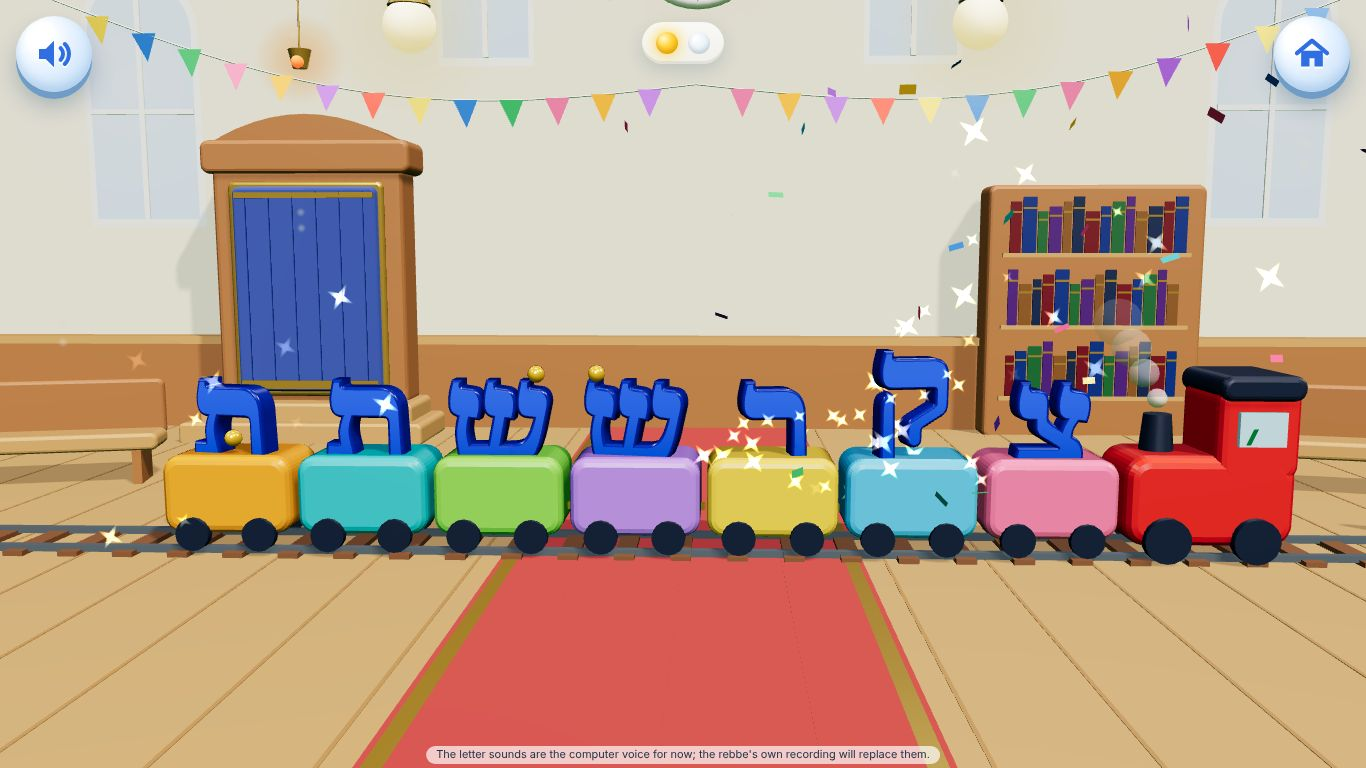
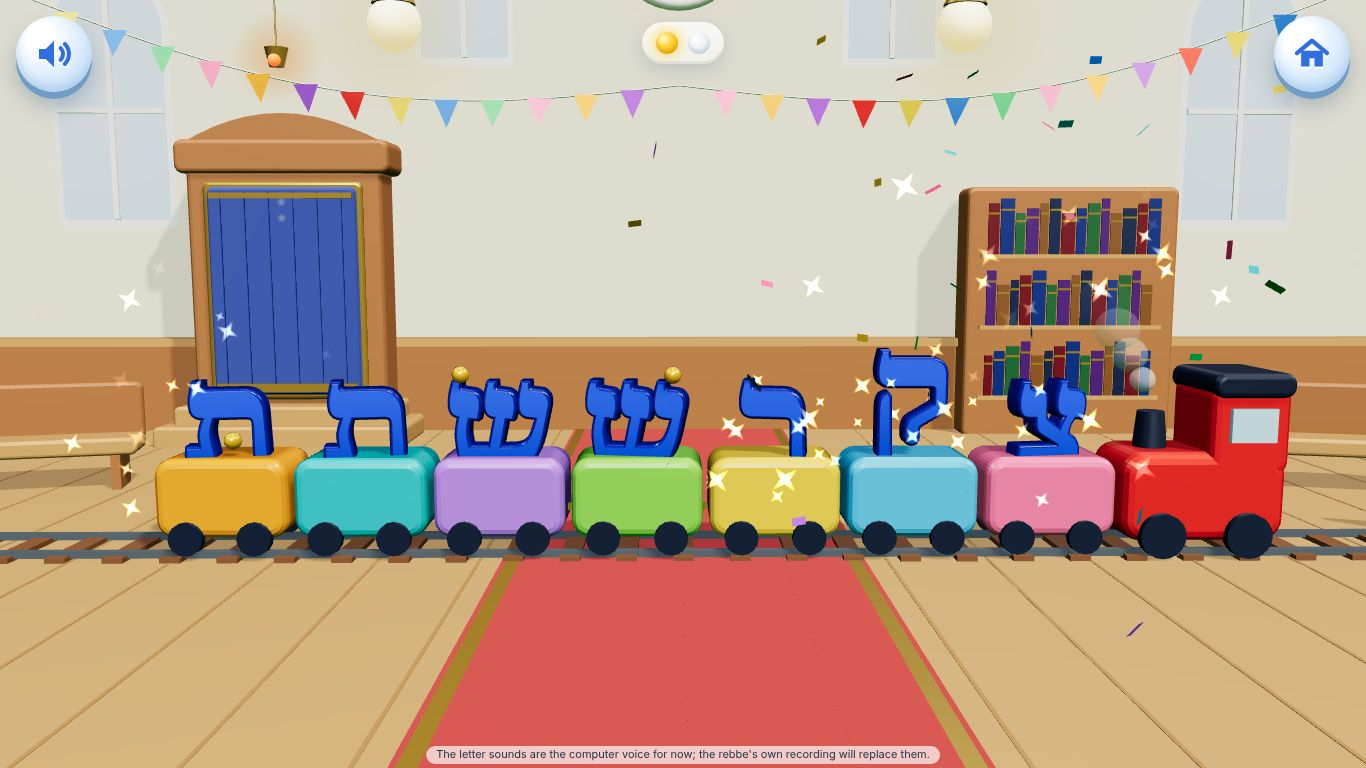
K Kriyah Unit 8: the mix-up train hides one dot pair among right cars; notes Co-Authored-By: Claude Opus 5.5 <noreply@anthropic.com> Claude-Session: https://claude.ai/code/session_016N866tqxnPmzUCae8bFavx

diff --git a/v2/app/k-kriyah/games/train.js b/v2/app/k-kriyah/games/train.js
@@ -128,14 +128,15 @@ export default function setup(E, { struggled, unit, game = {} }) {
     if (pr) { const [a, b] = pr.map(i => cars.find(x => x.userData.slot === i)); swapPairs = swapPairs.filter(p => p !== pr); E.sfx.whoosh();
       const pa = a.position.clone(), pb = b.position.clone(); await E.tween(650, q => { a.position.lerpVectors(pa, pb, q); b.position.lerpVectors(pb, pa, q); a.position.y += Math.sin(q * Math.PI) * 1.0; b.position.y += Math.sin(q * Math.PI) * .4; });
       const sa = a.userData.slot; a.userData.slot = b.userData.slot; b.userData.slot = sa; E.sfx.drum(); E.sparkle(a.position.clone().add(new THREE.Vector3(0, .8 * S, .4)), 14); E.sparkle(b.position.clone().add(new THREE.Vector3(0, .8 * S, .4)), 14);
-      const hi = Math.max(a.userData.slot, b.userData.slot); await E.say(['Fixed! ' + E.LETTERS[ORDER[hi - 1]].name + ', then ' + E.LETTERS[ORDER[hi]].name + '!']);
+      const hi = Math.max(a.userData.slot, b.userData.slot), k1 = ORDER[hi - 1], k2 = ORDER[hi]; await E.say(['Fixed! ' + E.LETTERS[k1].name + ', then ' + E.LETTERS[k2].name + '!']);
+      if (E.sameShape(k1, k2)) await E.say(E.LETTERS[k1].top ? 'Shin has its dot on the right.' : 'Tuf has a dot. Suf has none.');   /* what to look at */
       wrongInRow = 0; busy = false; if (!swapPairs.length && resolveSwap) { const r = resolveSwap; resolveSwap = null; r(); } }
     else { E.sfx.boop(); wrong++; wrongInRow++; await E.shake(c, .12); await E.say(E.LETTERS[c.userData.key].name + ' is in the right place. Listen.'); await chant(c.userData.slot, true);
       if (wrongInRow >= 2 || wrong >= 3) help = true; busy = false; }
   }
   async function roundSwap() {
     /* every other pair of neighbours is swapped: the first pair is the demo */
-    const prs = [[1, 2], [3, 4], [5, 6]].filter(p => p[1] < n); gaps = null;
+    const dotPairs = [[3, 4], [5, 6]].filter(p => p[1] < n), prs = [[1, 2], dotPairs[Math.floor(Math.random() * dotPairs.length)]].filter(Boolean); gaps = null;   /* the demo pair, and ONE dot pair among cars in the right place: he must look to find it */
     const at = i => { const p = prs.find(q => q.includes(i)); return p ? (p[0] === i ? p[1] : p[0]) : i; };   /* the car standing in place i */
     const lx = LX; loco.position.x = lx + 10;
     /* on a phone the cars park in two short lines (right to left, top line first), big enough to see every dot */
@@ -150,7 +151,7 @@ export default function setup(E, { struggled, unit, game = {} }) {
     await E.say(['Watch me. ' + E.LETTERS[ORDER[d[0]]].name + ' comes after ' + E.LETTERS[ORDER[d[0] - 1]].name + '.']);
     let [x, y] = E.toScreen(first.position.clone().add(new THREE.Vector3(0, .7 * S, 0))); E.hand.at(x, y, true); await E.wait(900); E.hand.hide();
     await tapSwap(first);
-    await E.say('Now you! Tap a car in the wrong place.'); wrongInRow = 0;   /* mistakes in both rounds count */
+    await E.say('Now you! Look at the dots.'); await E.say('Tap a car in the wrong place.'); wrongInRow = 0;   /* mistakes in both rounds count */
     const done = new Promise(r => resolveSwap = r); enabled = true; busy = false; document.body.dataset.swapReady = 1;
     await done; enabled = false; delete document.body.dataset.swapReady;
     E.joy(loco.position.clone().add(new THREE.Vector3(-2, 1.5, 1)), true); await chant();

diff --git a/v2/curriculum/k-kriyah/UNIT8-NOTES.md b/v2/curriculum/k-kriyah/UNIT8-NOTES.md
@@ -15,9 +15,9 @@ A bright, warm **shul on Simchas Torah**, made in 3D: a cream wall with tall arc
 | Stone | Game | What he does | What is new |
 |---|---|---|---|
 | 1 | Simchas Torah in shul (story) | Tatty shows Mendy the shofar: it turns into Shin. Mendy's Simchas Torah flag turns into Sin. Tatty dances with the Torah: Tuf rises out of a soft light (the Torah steps back; it is never spun or shrunk). Tuf's dot floats away: Suf. Then Shin beside Sin (a ring on each dot), Ches beside Tuf (an arrow at the little foot), the whole Alef-Beis chanted, and he taps each new letter. | The first chant of the whole Alef-Beis |
-| 2 | Dot Builder | "Make it Sin!" He drags the golden dot onto the right head (Shin) or the left head (Sin); onto the inside of ת (Tuf), or takes it out (Suf). Then all four mixed. A wrong place: the dot stays a moment, "Look! Dot on the right: that is Shin.", then the rule. | **A new kind of game** |
-| 3 | Look-Alike Detective | Ches and Tuf (the little foot), then **three boxes**: Hei, Ches and Tuf. | Three boxes at once |
-| 4 | Alef-Beis Train | He puts Tzadik to Suf on the train in order. Then the train comes back and **Yaakov has mixed up cars**: he taps a car in the wrong place and it swaps back. Two mix-ups differ only by the dot (Shin/Sin, Tuf/Suf). | Find and fix the order |
+| 2 | Dot Builder | "Make it Sin!" He drags the golden dot onto the right head (Shin) or the left head (Sin); onto the inside of ת (Tuf), or takes it out (Suf). For Tuf and Suf the dot starts in or out at random: if it is already right, he taps the green check. Then all four mixed. A wrong place: the dot stays a moment, "Look! Dot on the right: that is Shin.", then the rule. | **A new kind of game** |
+| 3 | Look-Alike Detective | Ches and Tuf (the little foot), then **three boxes**: Hei, Ches and Tuf. Some cards are Suf (no dot) and go in Tuf's box, so the foot, not the dot, is the clue. | Three boxes at once |
+| 4 | Alef-Beis Train | He puts Tzadik to Suf on the train in order. Then the train comes back and **Yaakov has mixed up cars**: after the demo (Kuf and Reish), one pair that differs only by the dot (Shin/Sin or Tuf/Suf) is mixed among cars in the right place; he must look at the dots to find it. On a phone the cars park in two short lines so every dot shows. | Find and fix the order |
 | 5 | Find the Mistake | **"Yaakov says this letter says sh. Is he right?"** Yaakov says the sound, not the name. He taps ✓ or ✗ and fixes the sign. | Sounds, not names |
 | 6 | Show what you know | 9 "hear it, tap it" questions; Shin stands beside Sin, Tuf beside Suf, Ches beside Tuf. Tes never stands beside Tuf when he hears "t", and Samech, Sin and Suf never stand together when he hears "s". | The whole Alef-Beis |
 | 7 | Review: Letter Hunt | Unit 7's Kuf (beside Hei) and Reish (beside Daled), hidden in the sukkah. | First hunt of these letters |
@@ -44,6 +44,12 @@ A bright, warm **shul on Simchas Torah**, made in 3D: a cream wall with tall arc
 
 ## Every spoken line that is new in Unit 8
 See the pull request ("Spoken lines").
+
+## Changes to earlier units' games (shared game files)
+- The bonus rain demo now catches the right letter (before, in Units 2–7, the demo's catch counted as a miss).
+- The 7-car train shows all its waiting cars on a phone (Unit 5 had one car hidden behind another).
+- Letter Hunt keeps Kuf's long leg on its tile.
+- The gallery lists Unit 8.
 
 ## What's next
 Unit 9: the final letters (ך ם ן ף ץ).
